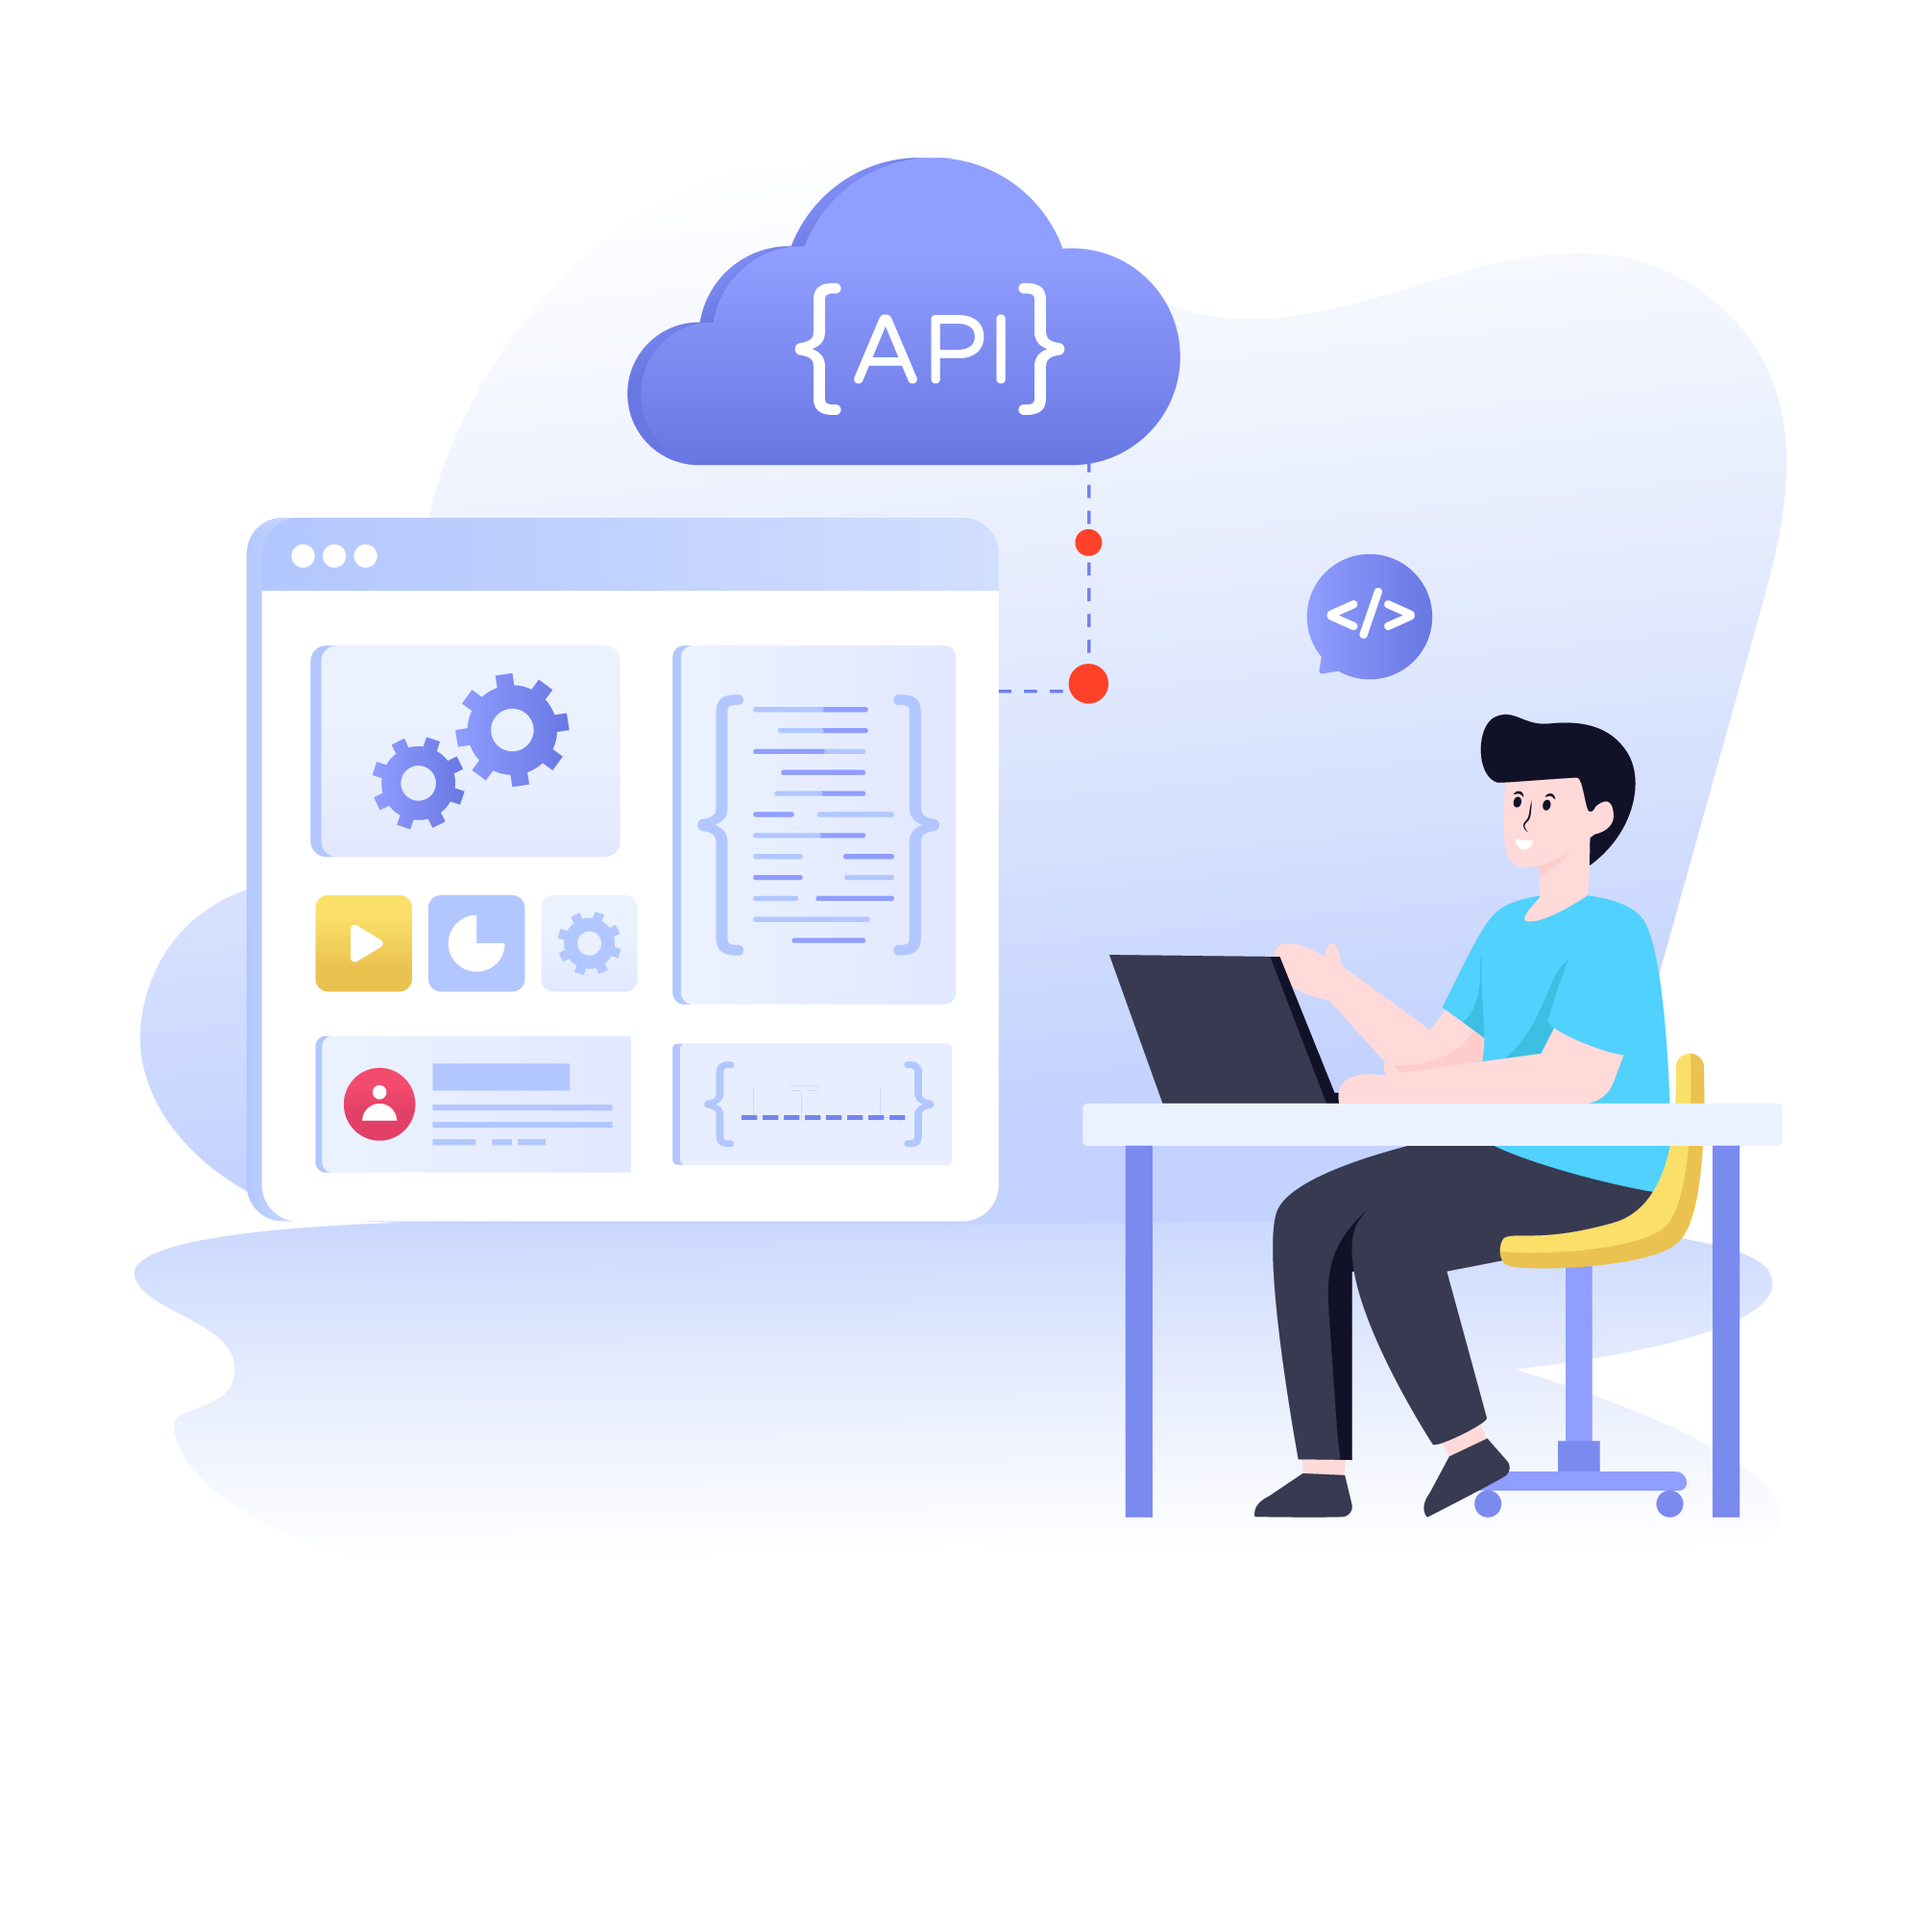
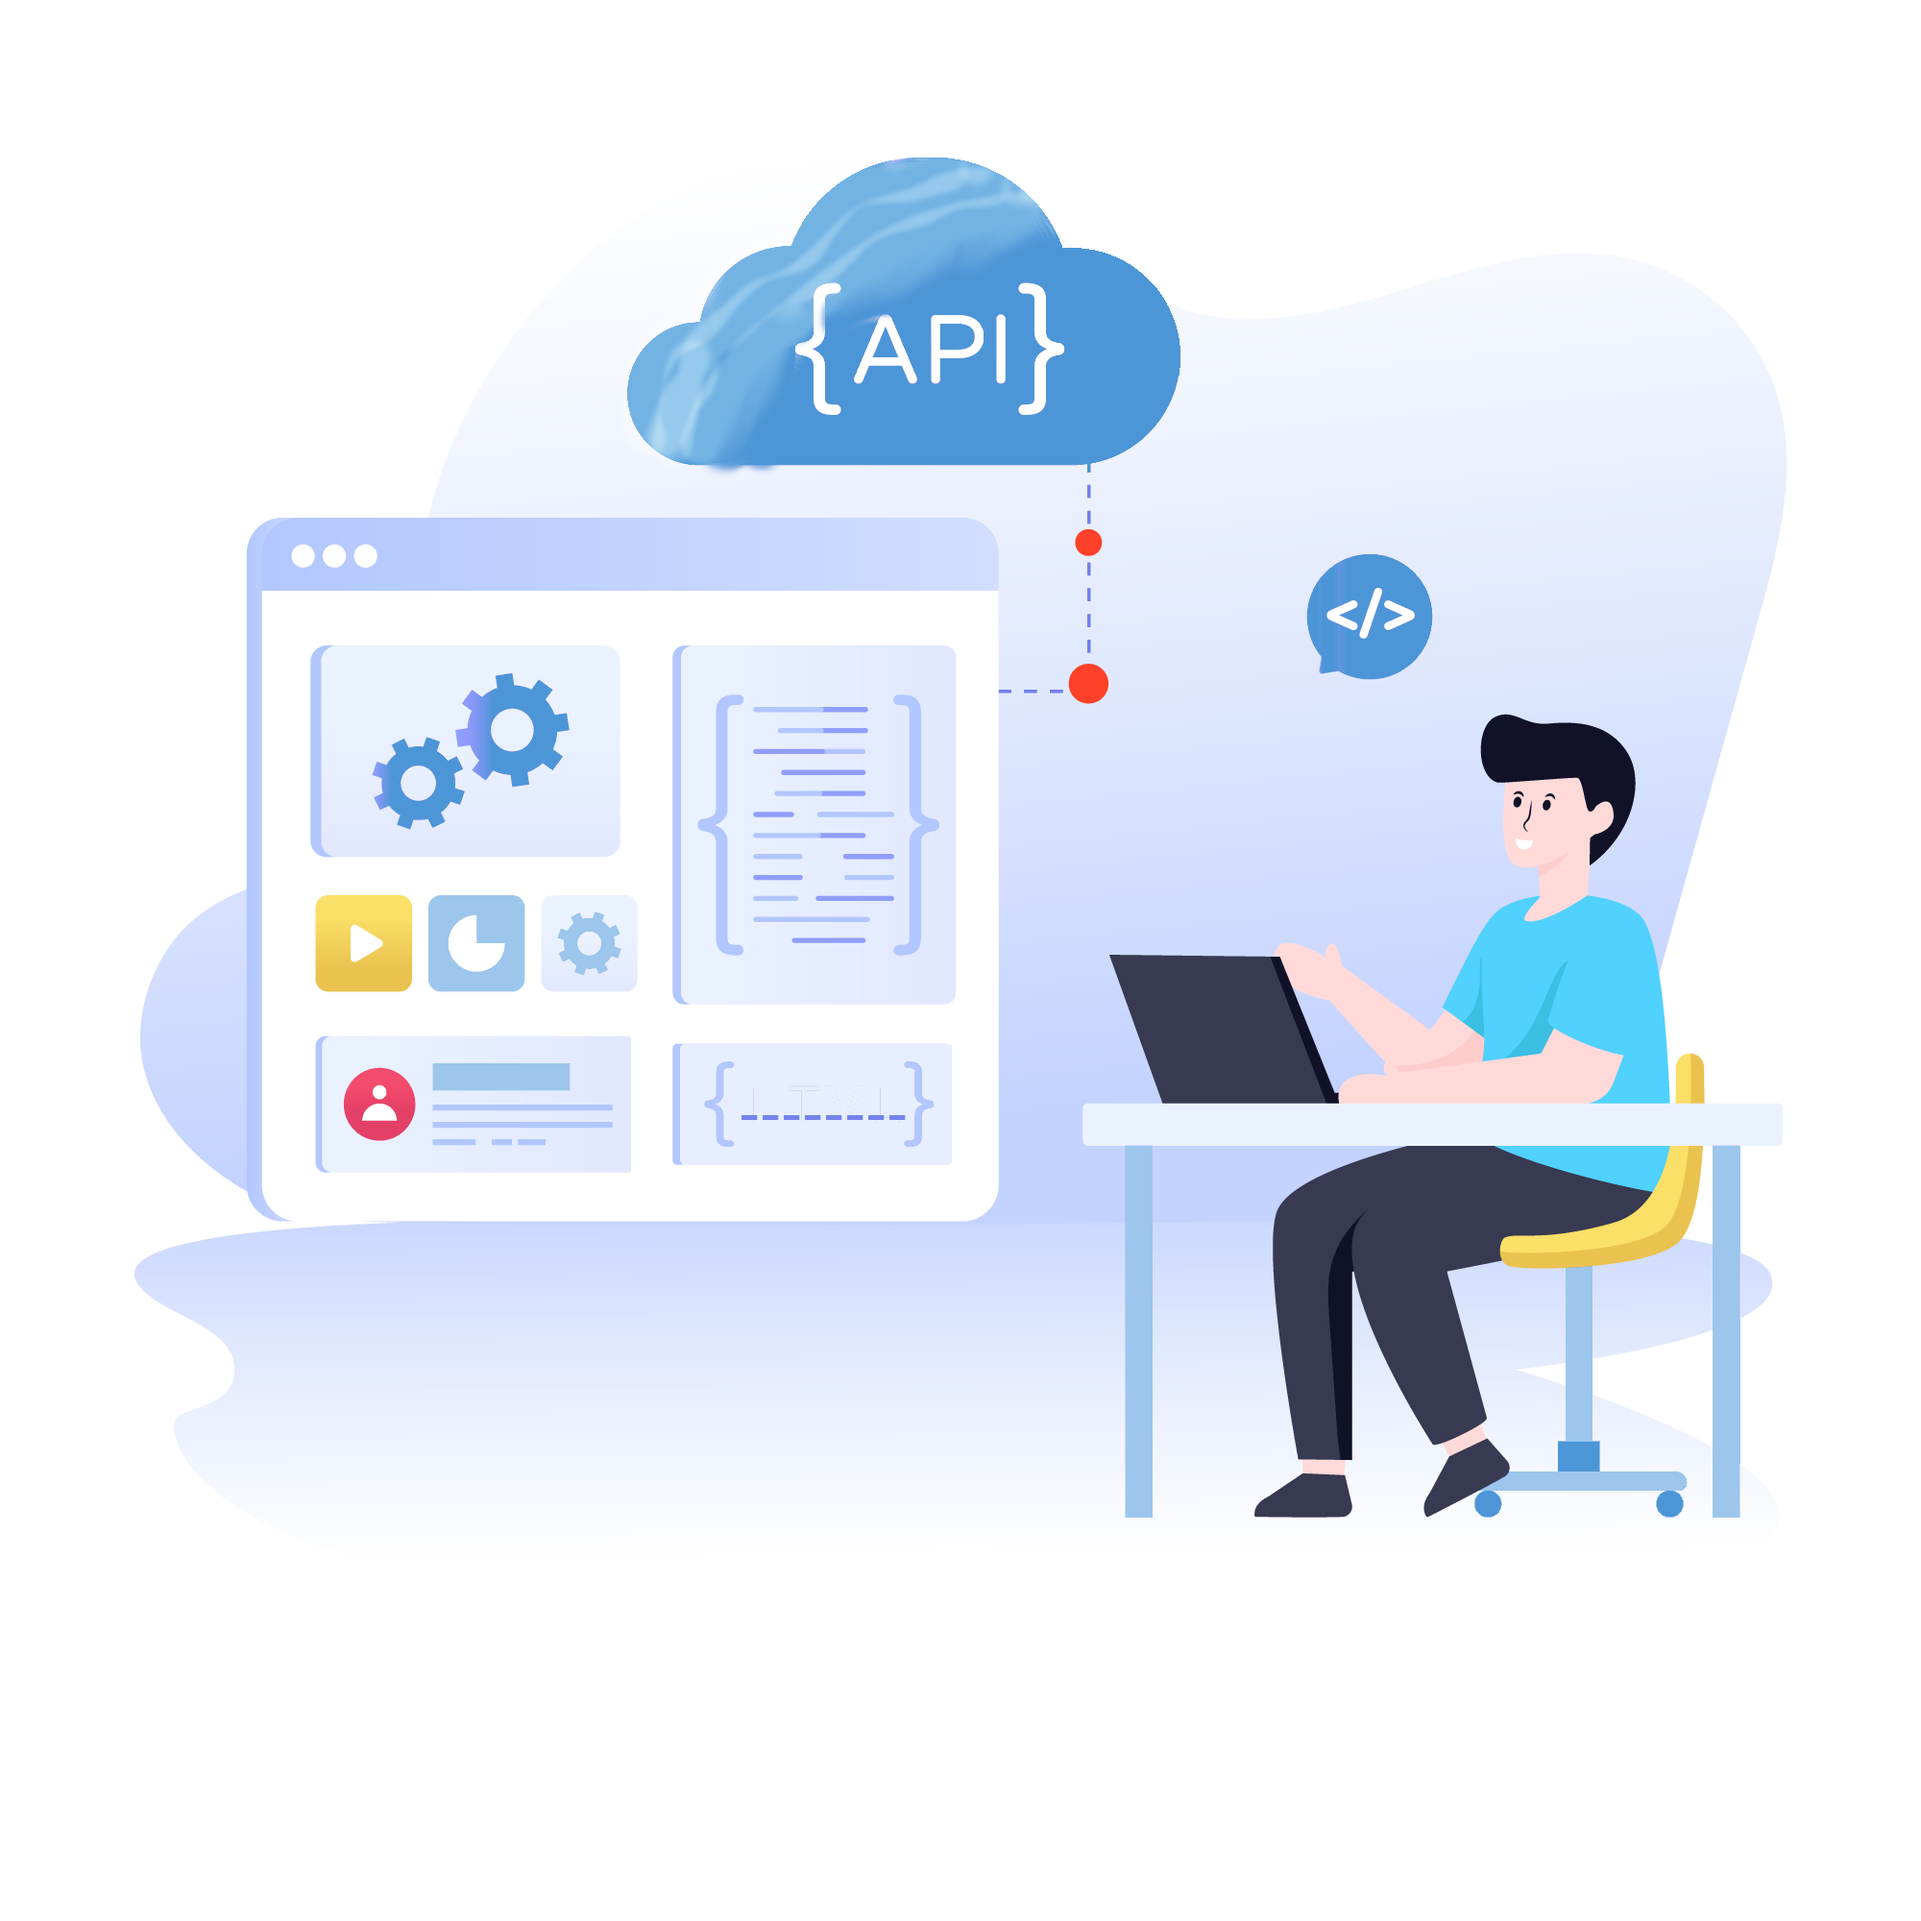
Update images & design of allServices & hero

diff --git a/deploily-website/src/app/[locale]/containers/ServicesContainer/servicesList.tsx b/deploily-website/src/app/[locale]/containers/ServicesContainer/servicesList.tsx
@@ -1,14 +1,15 @@
 "use client";
 import React from "react";
 import {useScopedI18n} from "../../../../../locales/client";
-import { allServices } from "./allServices";
-import { Row, Col, Typography,theme } from 'antd';
+import {allServices} from "./allServices";
+import {Row, Col, Typography, theme} from "antd";
 
-const { Title ,Text} = Typography;
+const {Title, Text} = Typography;
 
-function isOdd(num:any) { return num % 2; }
+function isOdd(num: any) {
+  return num % 2;
+}
 export default function ServiceListContainer() {
-
   // const [theme] = useState("dark");
   const scopedService = useScopedI18n("service");
   const {useToken} = theme;
@@ -21,17 +22,18 @@ export default function ServiceListContainer() {
             justify="center"
             align="middle"
             gutter={[16, 16]}
-            
-            style={{ flexDirection: isOdd(index) === 0 ? 'row' : 'row-reverse' , backgroundColor: token.colorBgBase,}}
-           
+            style={{
+              flexDirection: isOdd(index) === 0 ? "row-reverse" : "row",
+              backgroundColor: token.colorBgBase,
+            }}
           >
             {/* Barre latérale avec effet */}
             <Col
               style={{
-                minHeight: '300px',
-                width: '5px',
+                minHeight: "300px",
+                width: "5px",
                 backgroundColor: token.colorPrimary,
-                clipPath: 'ellipse(20% 50% at 50% 50%)',
+                clipPath: "ellipse(20% 50% at 50% 50%)",
               }}
             />
 
@@ -41,34 +43,38 @@ export default function ServiceListContainer() {
               sm={24}
               md={19}
               style={{
-                display: 'flex',
-                flexDirection: isOdd(index) === 0 ? 'row' : 'row-reverse',
-                justifyContent: 'space-evenly',
-                alignItems: 'center',
+                display: "flex",
+                flexDirection: isOdd(index) === 0 ? "row-reverse" : "row",
+                justifyContent: "space-evenly",
+                alignItems: "center",
               }}
             >
               {/* Section du texte */}
               <Col
                 md={10}
                 style={{
-                  display: 'flex',
-                  flexDirection: 'column',
-                  justifyContent: 'center',
-                  alignItems: 'center',
-                  textAlign: 'center',
-                  margin: '30px',
+                  display: "flex",
+                  flexDirection: "column",
+                  justifyContent: "center",
+                  alignItems: "center",
+                  textAlign: "center",
+                  margin: "30px",
                 }}
               >
-                <Title level={3} style={{ fontWeight: 'bold', fontSize: '25px' ,color:token.colorTextBase,}}>
+                <Title
+                  level={3}
+                  style={{fontWeight: "bold", fontSize: "25px", color: token.colorTextBase}}
+                >
                   {service.title.toLocaleUpperCase()}
                 </Title>
-                <Text style={{ fontWeight: 500, fontSize: '16px', display: 'block' }}>
-                {service.description}
-              </Text> 
+                <Text style={{fontWeight: 500, fontSize: "16px", display: "block"}}>
+                  {service.description}
+                </Text>
+              </Col>
+              <Col xs={24} md={10} style={{display: "flex", justifyContent: "center"}}>
+                {service.image}
+              </Col>{" "}
             </Col>
-            <Col xs={24} md={10} style={{ display: 'flex', justifyContent: 'center' }}>
-              {service.image}
-            </Col> </Col>
           </Row>
         </div>
       ))}

diff --git a/deploily-website/src/app/[locale]/containers/ServicesContainer/allServices.tsx b/deploily-website/src/app/[locale]/containers/ServicesContainer/allServices.tsx
@@ -1,20 +1,18 @@
-import { Image } from 'antd';
-import { StarOutlined, ToolOutlined, UserOutlined } from '@ant-design/icons';
+import {Image} from "antd";
+import {StarOutlined, ToolOutlined, UserOutlined} from "@ant-design/icons";
 
-
-
-export const allServices = (scopedService:any) => [
+export const allServices = (scopedService: any) => [
   {
     title: scopedService("title1"),
     image: (
       <Image
-      src="/images/devops.png"
-      preview={false} // Désactive l'aperçu modal
-        style={{ objectFit: "contain",  maxHeight: '100%',  width: '100%' }}
+        src="/images/devops.png"
+        preview={false} // Désactive l'aperçu modal
+        style={{objectFit: "contain", maxHeight: "100%", width: "100%"}}
         alt="service1"
       />
     ),
-    icon: <StarOutlined style={{ fontSize: 32, color: 'orange' }} />,
+    icon: <StarOutlined style={{fontSize: 32, color: "orange"}} />,
     description: scopedService("description1"),
   },
   {
@@ -23,24 +21,24 @@ export const allServices = (scopedService:any) => [
       <Image
         src="/images/infrastructure.png"
         preview={false}
-        style={{ objectFit: "contain", maxHeight: '100%', width: '100%' }}
+        style={{objectFit: "contain", maxHeight: "100%", width: "100%"}}
         alt="service2"
       />
     ),
-    icon: <ToolOutlined style={{ fontSize: 32, color: 'grey' }} />,
+    icon: <ToolOutlined style={{fontSize: 32, color: "grey"}} />,
     description: scopedService("description2"),
   },
   {
     title: scopedService("title3"),
     image: (
       <Image
-      src="/images/api.png"
-      preview={false}
-        style={{ objectFit: "contain", maxHeight: '100%', width: '100%' }}
+        src="/images/api.png"
+        preview={false}
+        style={{objectFit: "contain", maxHeight: "100%", width: "100%"}}
         alt="service3"
       />
     ),
-    icon: <UserOutlined style={{ fontSize: 32, color: 'grey' }} />,
+    icon: <UserOutlined style={{fontSize: 32, color: "grey"}} />,
     description: scopedService("description3"),
   },
 ];

diff --git a/deploily-website/src/app/[locale]/layout.tsx b/deploily-website/src/app/[locale]/layout.tsx
@@ -1,10 +1,10 @@
-import React, { ReactElement } from "react";
-import { GoogleAnalytics } from "@next/third-parties/google";
-import type { Metadata } from "next";
-import { AntdRegistry } from "@ant-design/nextjs-registry";
-import { ConfigProvider } from "antd";
-import { theme } from "../../styles/theme";
-import { I18nProviderClient } from "../../../locales/client";
+import React, {ReactElement} from "react";
+import {GoogleAnalytics} from "@next/third-parties/google";
+import type {Metadata} from "next";
+import {AntdRegistry} from "@ant-design/nextjs-registry";
+import {ConfigProvider} from "antd";
+import {theme} from "../../styles/theme";
+import {I18nProviderClient} from "../../../locales/client";
 import "antd/dist/reset.css";
 
 export const generateViewport = () => ({
@@ -41,14 +41,14 @@ export default async function RootLayout({
   params,
 }: {
   children: ReactElement;
-  params: Promise<{ locale: string }>;
+  params: Promise<{locale: string}>;
 }) {
   // Resolve the params Promise to access the locale
-  const { locale } = await params;
+  const {locale} = await params;
 
   return (
     <html lang={locale}>
-      <body suppressHydrationWarning={true} style={{ margin: "0px" }}>
+      <body suppressHydrationWarning={true} style={{margin: "0px"}}>
         <GoogleAnalytics gaId="G-N5HBREFEE3" />
         <I18nProviderClient locale={locale}>
           <AntdRegistry>

diff --git a/deploily-website/src/app/[locale]/components/utils/about.tsx b/deploily-website/src/app/[locale]/components/utils/about.tsx
@@ -3,11 +3,13 @@ export const socialMedias = [
     link: "https://www.facebook.com/deploily",
     image: "/images/facebook.png",
     alt: "Facebook",
-  }, {
+  },
+  {
     link: "https://www.linkedin.com/showcase/deploily",
     image: "/images/linkedin.png",
     alt: "LinkedIn",
-  }, {
+  },
+  {
     link: "https://transformatek.dz",
     image: "/images/transformatek-icon.png",
     alt: "Transformatek",
@@ -16,9 +18,10 @@ export const socialMedias = [
     link: "https://github.com/deploily",
     image: "/images/github.png",
     alt: "GitHub",
-  }, {
+  },
+  {
     link: "http://docs.deploily.cloud/",
     image: "/images/docs.png",
     alt: "Deploily Docs",
   },
-]
+];

diff --git a/deploily-website/src/app/[locale]/components/footer.tsx b/deploily-website/src/app/[locale]/components/footer.tsx
@@ -10,8 +10,7 @@ function Copyright() {
   return (
     <Typography>
       {"Copyright ©  "}
-      {new Date().getFullYear()}
-      {" "}
+      {new Date().getFullYear()}{" "}
       <Link color="inherit" rel="noopener" target="blank" href={"https://transformatek.dz"}>
         SARL Transformatek
       </Link>
